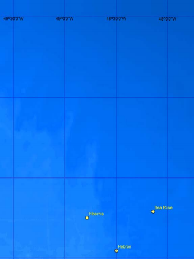
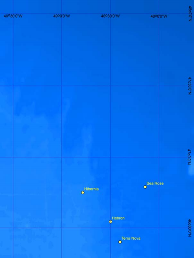
Fixed Map, Added threat table, basic keel calculations

diff --git a/Driver Apps/Iceberg Threat Detection/app.js b/Driver Apps/Iceberg Threat Detection/app.js
@@ -1,4 +1,5 @@
 var app = angular.module('app', []);
+
 app.controller('ctrl', function($scope) {
 	$scope.dia = 0;
 	$scope.dep = 0;
@@ -6,18 +7,76 @@ app.controller('ctrl', function($scope) {
 	$scope.lat = 0;
 	$scope.lon = 0;
 	$scope.head = 0;
+
     $scope.vol = function() {
-        var vol = Math.PI * Math.pow($scope.dia / 2, 2) * ($scope.dep / 3);
-        return vol.toFixed(1);
+    	if ($scope.dia != 0 && $scope.dep != 0) {
+        	var vol = Math.PI * Math.pow($scope.dia / 2, 2) * ($scope.dep / 3);
+        	return vol.toFixed(1);
+    	} else {
+    		return "Unknown";
+    	}
     }
+
+    function surface(depth) {
+    	if ($scope.keel != 0 && $scope.lat != 0 && $scope.lon != 0) {
+    		if ($scope.keel <= depth * 1.1) {
+    			return "Green";
+    		} else {
+    			return "Red";
+    		}
+    	} else {
+    		return "Unknown";
+    	}
+    }
+
+    function subsea(depth) {
+    	if ($scope.keel != 0 && $scope.lat != 0 && $scope.lon != 0) {
+    		if ($scope.keel <= depth * 1.1 || $scope.keel > depth * 0.7) {
+    			return "Green";
+    		} else if ($scope.keel > depth * 0.9 && $scope.keel <= depth * 0.7) {
+    			return "Yellow";
+    		} else {
+    			return "Red";
+    		}
+    	} else {
+    		return "Unknown";
+    	}
+    }
+
+    $scope.hibsur = function() { return surface(-78); }
+
+    $scope.hibsub = function() { return subsea(-78); }
+
+    $scope.seasur = function() { return surface(-107); }
+
+    $scope.seasub = function() { return subsea(-107); }
+
+    $scope.tersur = function() { return surface(-91); }
+
+    $scope.tersub = function() { return subsea(-91); }
+
+    $scope.hebsur = function() { return surface(-93); }
+
+    $scope.hebsub = function() { return subsea(-93); }
 });
-var canvas = document.getElementById("image");
-var drawing = canvas.getContext("2d");
-var img = document.getElementById("map");
-drawing.drawImage(img, 0, 0);
-drawing.moveTo(0, 0);
-drawing.lineTo(195, 259);
-drawing.moveTo(195, 0);
-drawing.lineTo(0, 259);
-drawing.lineWidth = 5;
-drawing.stroke();
+
+$(document).ready(function(){
+	var c = document.getElementById("image");
+	var ctx = c.getContext("2d");
+	var img = document.getElementById("map");
+	ctx.drawImage(img, 0, 0);
+	$("canvas#image").click(function(){
+		var ctx = this.getContext("2d");
+		var img = $("#map")[0];
+		ctx.drawImage(img, 0, 0);
+		ctx.rect(0, 0, 1, 1);
+		ctx.fillStyle = 'red';
+		ctx.fill();
+		ctx.moveTo(0, 0);
+		ctx.lineTo(194, 258);
+		ctx.moveTo(194, 0);
+		ctx.lineTo(0, 258);
+		ctx.lineWidth = 5;
+		ctx.stroke();
+	})
+})

diff --git a/Driver Apps/Iceberg Threat Detection/index.html b/Driver Apps/Iceberg Threat Detection/index.html
@@ -5,6 +5,7 @@
 	<link rel="stylesheet" href="http://maxcdn.bootstrapcdn.com/bootstrap/3.3.4/css/bootstrap.min.css">
 	<script src="https://ajax.googleapis.com/ajax/libs/jquery/2.1.4/jquery.min.js"></script>
 	<script src="https://ajax.googleapis.com/ajax/libs/angularjs/1.3.14/angular.min.js"></script>
+	<script src="app.js"></script>
 </head>
 <body ng-app="app" ng-controller="ctrl">
 	<div class="row">
@@ -32,14 +33,14 @@
 		<h2>Iceberg Threat Identification</h2>
 	</div>
 	<div class="row">
-		<canvas id="image" width="194px" height="259px"></canvas>
+		<canvas id="image" width="194px" height="258px"></canvas>
 		<img id="map" src="Images/Map.png" hidden>
 	</div>
 	<p></p>
 	<div class="row">
 		<div class="col-xs-1"></div>
 		<div class="col-xs-1">
-			Keel Depth:
+			Real Keel Depth:
 		</div>
 		<div class="col-xs-1">
 			<input type="text" class="form-control input-sm" ng-model="keel">
@@ -75,6 +76,40 @@
 	<div class="row">
 		<h4>Threat Levels:</h4>
 	</div>
-	<script src="app.js"></script>
+	<div class="row">
+		<div class="col-xs-12">
+			<table class="table">
+				<thead>
+					<tr>
+						<th>Asset</th>
+						<th>Surface</th>
+						<th>Subsea</th>
+					</tr>
+				</thead>
+				<tbody>
+					<tr>
+						<td>Hibernia</td>
+						<td>{{hibsur()}}</td>
+						<td>{{hibsub()}}</td>
+					</tr>
+					<tr>
+						<td>Sea Rose</td>
+						<td>{{seasur()}}</td>
+						<td>{{seasub()}}</td>
+					</tr>
+					<tr>
+						<td>Terra Nova</td>
+						<td>{{tersur()}}</td>
+						<td>{{tersub()}}</td>
+					</tr>
+					<tr>
+						<td>Hebron</td>
+						<td>{{hebsur()}}</td>
+						<td>{{hebsub()}}</td>
+					</tr>
+				</tbody>
+			</table>
+		</div>
+	</div>
 </body>
 </html>
